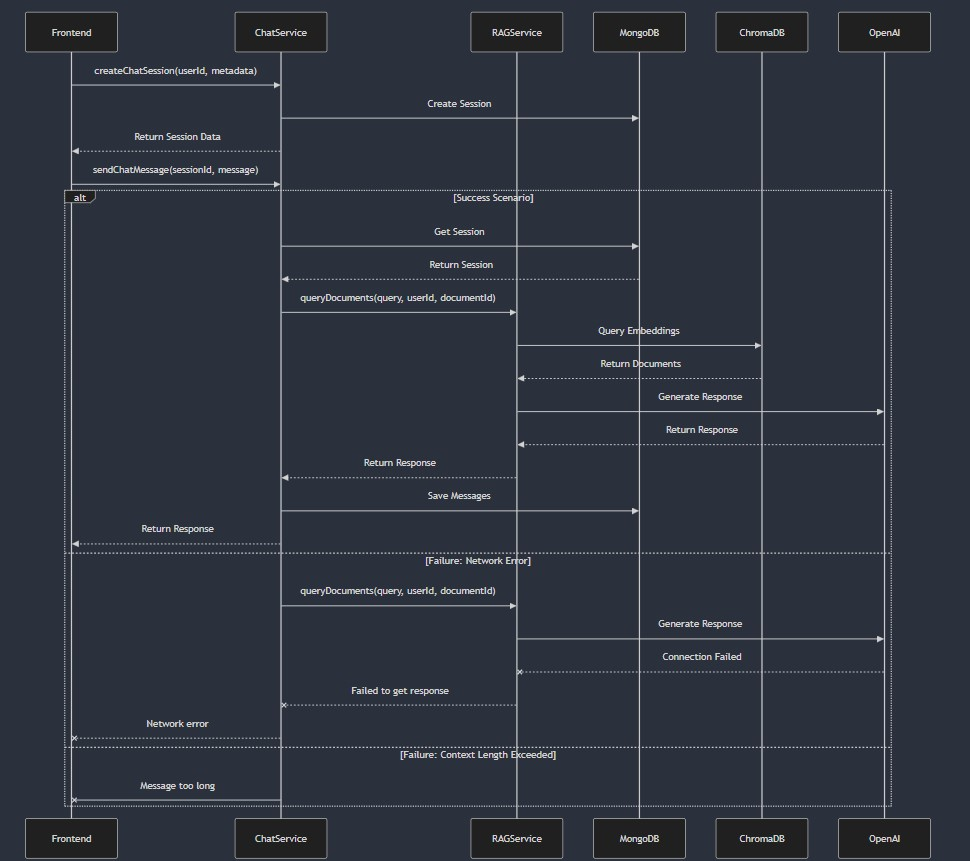
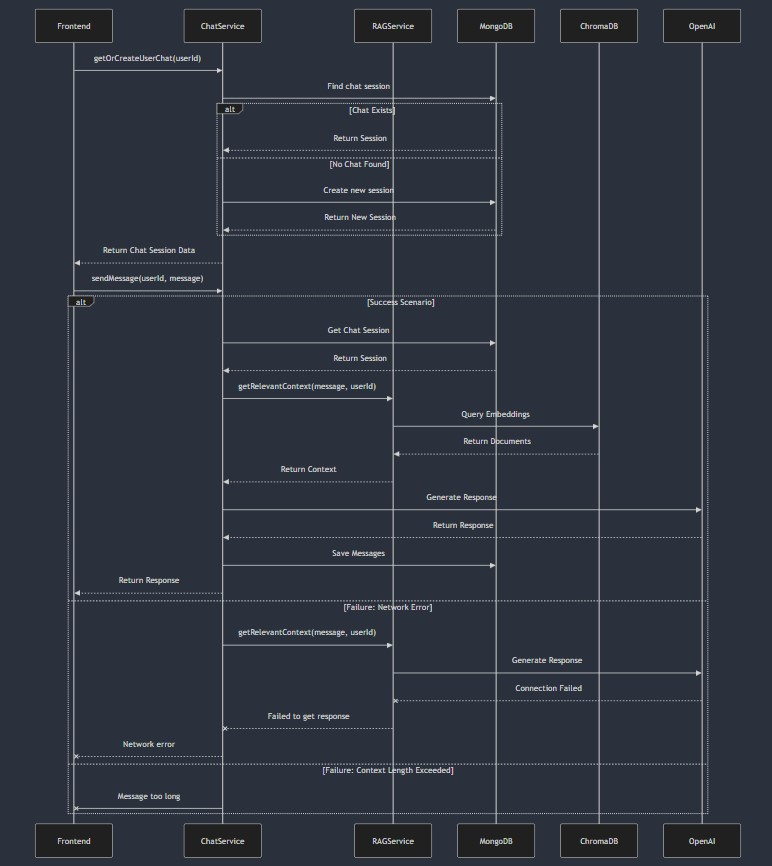
docs: fix up chat interfacing

Changed region(s): [[0.0, 0.0, 0.9637, 1.0], [0.342, 0.2718, 0.4041, 0.302]]

diff --git a/doc/M3_Requirements_and_Design.md b/doc/M3_Requirements_and_Design.md
@@ -271,47 +271,28 @@ Note: Users and Students will be used synonymously in this document.
 
     ```java
     /**
-     * Creates a new chat session.
+    * Gets or creates a chat for a user
     *
     * @param userId The Google ID of the user
-    * @param metadata Optional metadata including source, topic, and optional documentId
-    * @return New chat session data
+    * @return Chat session data including message history
     */
-    ChatSession createChatSession(String userId, Map<String, Object> metadata);
+    ChatSessionDTO getOrCreateUserChat(String userId);
 
     /**
-    * Sends a message to an existing chat session and gets an AI response.
+    * Sends a message and gets an AI response
     *
-    * @param sessionId The unique ID of the chat session
+    * @param userId The Google ID of the user
     * @param message The user's message text
     * @return AI-generated response
     */
-    String sendChatMessage(String sessionId, String message);
+    ChatMessage sendMessage(String userId, String message);
 
     /**
-    * Retrieves a specific chat session with its message history.
-    *
-    * @param sessionId The unique ID of the chat session
-    * @return Chat session data including message history
-    */
-    ChatSession getChatSession(String sessionId);
-
-    /**
-    * Deletes a chat session.
-    *
-    * @param sessionId The unique ID of the chat session to delete
-    * @return True if deletion was successful
-    */
-    boolean deleteChatSession(String sessionId);
-
-    /**
-    * Gets all chat sessions for a user, optionally filtered by document.
+    * Clears chat history for a user
     *
     * @param userId The Google ID of the user
-    * @param documentId Optional document ID to filter by
-    * @return List of chat sessions
     */
-    List<ChatSession> getUserChatSessions(String userId, String documentId);
+    void clearChatHistory(String userId);
     ```
 
 5. **RAGService**
